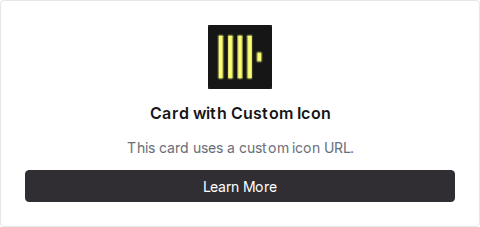
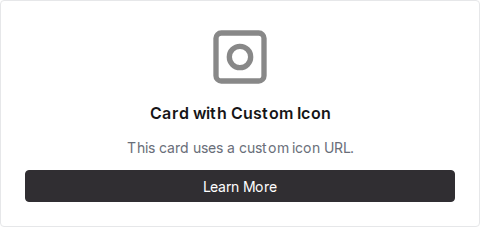
test(CardPrimary): 💍 use data-testid selectors and fix click event test

Changed region(s): [[0.4062, 0.0925, 0.5938, 0.4009]]

diff --git a/tests/cards/cardprimary.spec.ts b/tests/cards/cardprimary.spec.ts
@@ -10,7 +10,7 @@ describe('CardPrimary Visual Regression', () => {
         await page.goto(getStoryUrl('cards-primary-card--size-medium', 'light'), {
           waitUntil: 'networkidle',
         });
-        const card = page.locator('[class*="card-primary"]').first();
+        const card = page.getByTestId('card-primary');
         await expect(card).toBeVisible({ timeout: 10000 });
         await expect(card).toHaveScreenshot('card-primary-size-medium-light.png', {
           maxDiffPixels: 100,
@@ -21,7 +21,7 @@ describe('CardPrimary Visual Regression', () => {
         await page.goto(getStoryUrl('cards-primary-card--size-small', 'light'), {
           waitUntil: 'networkidle',
         });
-        const card = page.locator('[class*="card-primary"]').first();
+        const card = page.getByTestId('card-primary');
         await expect(card).toBeVisible({ timeout: 10000 });
         await expect(card).toHaveScreenshot('card-primary-size-small-light.png', {
           maxDiffPixels: 100,
@@ -34,7 +34,7 @@ describe('CardPrimary Visual Regression', () => {
         await page.goto(getStoryUrl('cards-primary-card--align-start', 'light'), {
           waitUntil: 'networkidle',
         });
-        const card = page.locator('[class*="card-primary"]').first();
+        const card = page.getByTestId('card-primary');
         await expect(card).toBeVisible({ timeout: 10000 });
         await expect(card).toHaveScreenshot('card-primary-align-start-light.png', {
           maxDiffPixels: 100,
@@ -45,7 +45,7 @@ describe('CardPrimary Visual Regression', () => {
         await page.goto(getStoryUrl('cards-primary-card--align-center', 'light'), {
           waitUntil: 'networkidle',
         });
-        const card = page.locator('[class*="card-primary"]').first();
+        const card = page.getByTestId('card-primary');
         await expect(card).toBeVisible({ timeout: 10000 });
         await expect(card).toHaveScreenshot('card-primary-align-center-light.png', {
           maxDiffPixels: 100,
@@ -56,7 +56,7 @@ describe('CardPrimary Visual Regression', () => {
         await page.goto(getStoryUrl('cards-primary-card--align-end', 'light'), {
           waitUntil: 'networkidle',
         });
-        const card = page.locator('[class*="card-primary"]').first();
+        const card = page.getByTestId('card-primary');
         await expect(card).toBeVisible({ timeout: 10000 });
         await expect(card).toHaveScreenshot('card-primary-align-end-light.png', {
           maxDiffPixels: 100,
@@ -69,7 +69,7 @@ describe('CardPrimary Visual Regression', () => {
         await page.goto(getStoryUrl('cards-primary-card--with-shadow', 'light'), {
           waitUntil: 'networkidle',
         });
-        const card = page.locator('[class*="card-primary"]').first();
+        const card = page.getByTestId('card-primary');
         await expect(card).toBeVisible({ timeout: 10000 });
         await expect(card).toHaveScreenshot('card-primary-with-shadow-light.png', {
           maxDiffPixels: 100,
@@ -80,7 +80,7 @@ describe('CardPrimary Visual Regression', () => {
         await page.goto(getStoryUrl('cards-primary-card--disabled', 'light'), {
           waitUntil: 'networkidle',
         });
-        const card = page.locator('[class*="card-primary"]').first();
+        const card = page.getByTestId('card-primary');
         await expect(card).toBeVisible({ timeout: 10000 });
         await expect(card).toHaveAttribute('aria-disabled', 'true');
         await expect(card).toHaveScreenshot('card-primary-disabled-light.png', {
@@ -92,7 +92,7 @@ describe('CardPrimary Visual Regression', () => {
         await page.goto(getStoryUrl('cards-primary-card--selected', 'light'), {
           waitUntil: 'networkidle',
         });
-        const card = page.locator('[class*="card-primary"]').first();
+        const card = page.getByTestId('card-primary');
         await expect(card).toBeVisible({ timeout: 10000 });
         await expect(card).toHaveAttribute('aria-pressed', 'true');
         await expect(card).toHaveScreenshot('card-primary-selected-light.png', {
@@ -106,7 +106,7 @@ describe('CardPrimary Visual Regression', () => {
         await page.goto(getStoryUrl('cards-primary-card--with-icon', 'light'), {
           waitUntil: 'networkidle',
         });
-        const card = page.locator('[class*="card-primary"]').first();
+        const card = page.getByTestId('card-primary');
         await expect(card).toBeVisible({ timeout: 10000 });
         await expect(card).toHaveScreenshot('card-primary-with-icon-light.png', {
           maxDiffPixels: 100,
@@ -117,7 +117,7 @@ describe('CardPrimary Visual Regression', () => {
         await page.goto(getStoryUrl('cards-primary-card--with-icon-url', 'light'), {
           waitUntil: 'networkidle',
         });
-        const card = page.locator('[class*="card-primary"]').first();
+        const card = page.getByTestId('card-primary');
         await expect(card).toBeVisible({ timeout: 10000 });
         await expect(card).toHaveScreenshot('card-primary-with-icon-url-light.png', {
           maxDiffPixels: 100,
@@ -128,7 +128,7 @@ describe('CardPrimary Visual Regression', () => {
         await page.goto(getStoryUrl('cards-primary-card--without-icon', 'light'), {
           waitUntil: 'networkidle',
         });
-        const card = page.locator('[class*="card-primary"]').first();
+        const card = page.getByTestId('card-primary');
         await expect(card).toBeVisible({ timeout: 10000 });
         await expect(card).toHaveScreenshot('card-primary-without-icon-light.png', {
           maxDiffPixels: 100,
@@ -139,7 +139,7 @@ describe('CardPrimary Visual Regression', () => {
         await page.goto(getStoryUrl('cards-primary-card--title-only', 'light'), {
           waitUntil: 'networkidle',
         });
-        const card = page.locator('[class*="card-primary"]').first();
+        const card = page.getByTestId('card-primary');
         await expect(card).toBeVisible({ timeout: 10000 });
         await expect(card).toHaveScreenshot('card-primary-title-only-light.png', {
           maxDiffPixels: 100,
@@ -150,7 +150,7 @@ describe('CardPrimary Visual Regression', () => {
         await page.goto(getStoryUrl('cards-primary-card--without-button', 'light'), {
           waitUntil: 'networkidle',
         });
-        const card = page.locator('[class*="card-primary"]').first();
+        const card = page.getByTestId('card-primary');
         await expect(card).toBeVisible({ timeout: 10000 });
         await expect(card).toHaveScreenshot('card-primary-without-button-light.png', {
           maxDiffPixels: 100,
@@ -161,7 +161,7 @@ describe('CardPrimary Visual Regression', () => {
         await page.goto(getStoryUrl('cards-primary-card--description-only', 'light'), {
           waitUntil: 'networkidle',
         });
-        const card = page.locator('[class*="card-primary"]').first();
+        const card = page.getByTestId('card-primary');
         await expect(card).toBeVisible({ timeout: 10000 });
         await expect(card).toHaveScreenshot('card-primary-description-only-light.png', {
           maxDiffPixels: 100,
@@ -174,7 +174,7 @@ describe('CardPrimary Visual Regression', () => {
         await page.goto(getStoryUrl('cards-primary-card--with-top-badge', 'light'), {
           waitUntil: 'networkidle',
         });
-        const card = page.locator('[class*="card-primary"]').first();
+        const card = page.getByTestId('card-primary');
         await expect(card).toBeVisible({ timeout: 10000 });
         await expect(card).toHaveScreenshot('card-primary-with-top-badge-light.png', {
           maxDiffPixels: 100,
@@ -188,7 +188,7 @@ describe('CardPrimary Visual Regression', () => {
             waitUntil: 'networkidle',
           }
         );
-        const card = page.locator('[class*="card-primary"]').first();
+        const card = page.getByTestId('card-primary');
         await expect(card).toBeVisible({ timeout: 10000 });
         await expect(card).toHaveScreenshot(
           'card-primary-with-top-badge-selected-light.png',
@@ -204,7 +204,7 @@ describe('CardPrimary Visual Regression', () => {
         await page.goto(getStoryUrl('cards-primary-card--small-with-badge', 'light'), {
           waitUntil: 'networkidle',
         });
-        const card = page.locator('[class*="card-primary"]').first();
+        const card = page.getByTestId('card-primary');
         await expect(card).toBeVisible({ timeout: 10000 });
         await expect(card).toHaveScreenshot('card-primary-small-with-badge-light.png', {
           maxDiffPixels: 100,
@@ -215,7 +215,7 @@ describe('CardPrimary Visual Regression', () => {
         await page.goto(getStoryUrl('cards-primary-card--small-disabled', 'light'), {
           waitUntil: 'networkidle',
         });
-        const card = page.locator('[class*="card-primary"]').first();
+        const card = page.getByTestId('card-primary');
         await expect(card).toBeVisible({ timeout: 10000 });
         await expect(card).toHaveAttribute('aria-disabled', 'true');
         await expect(card).toHaveScreenshot('card-primary-small-disabled-light.png', {
@@ -229,11 +229,11 @@ describe('CardPrimary Visual Regression', () => {
         await page.goto(getStoryUrl('cards-primary-card--size-medium', 'light'), {
           waitUntil: 'networkidle',
         });
-        const card = page.locator('[class*="card-primary"]').first();
+        const card = page.getByTestId('card-primary');
         await expect(card).toBeVisible({ timeout: 10000 });
         await card.hover();
         await page.waitForFunction(() => {
-          const el = document.querySelector('[class*="card-primary"]');
+          const el = document.querySelector('[data-testid="card-primary"]');
           return el?.matches(':hover') || false;
         });
         await expect(card).toHaveScreenshot('card-primary-hover-light.png', {
@@ -245,11 +245,11 @@ describe('CardPrimary Visual Regression', () => {
         await page.goto(getStoryUrl('cards-primary-card--size-medium', 'light'), {
           waitUntil: 'networkidle',
         });
-        const card = page.locator('[class*="card-primary"]').first();
+        const card = page.getByTestId('card-primary');
         await expect(card).toBeVisible({ timeout: 10000 });
         await card.focus();
         await page.waitForFunction(() => {
-          const el = document.querySelector('[class*="card-primary"]');
+          const el = document.querySelector('[data-testid="card-primary"]');
           return el?.matches(':focus') || false;
         });
         await expect(card).toHaveScreenshot('card-primary-focus-light.png', {
@@ -267,7 +267,7 @@ describe('CardPrimary Visual Regression', () => {
         await page.goto(getStoryUrl('cards-primary-card--size-medium'), {
           waitUntil: 'networkidle',
         });
-        const card = page.locator('[class*="card-primary"]').first();
+        const card = page.getByTestId('card-primary');
         await expect(card).toBeVisible({ timeout: 10000 });
         await expect(card).toHaveScreenshot('card-primary-size-medium-dark.png', {
           maxDiffPixels: 100,
@@ -278,7 +278,7 @@ describe('CardPrimary Visual Regression', () => {
         await page.goto(getStoryUrl('cards-primary-card--size-small'), {
           waitUntil: 'networkidle',
         });
-        const card = page.locator('[class*="card-primary"]').first();
+        const card = page.getByTestId('card-primary');
         await expect(card).toBeVisible({ timeout: 10000 });
         await expect(card).toHaveScreenshot('card-primary-size-small-dark.png', {
           maxDiffPixels: 100,
@@ -291,7 +291,7 @@ describe('CardPrimary Visual Regression', () => {
         await page.goto(getStoryUrl('cards-primary-card--disabled'), {
           waitUntil: 'networkidle',
         });
-        const card = page.locator('[class*="card-primary"]').first();
+        const card = page.getByTestId('card-primary');
         await expect(card).toBeVisible({ timeout: 10000 });
         await expect(card).toHaveAttribute('aria-disabled', 'true');
         await expect(card).toHaveScreenshot('card-primary-disabled-dark.png', {
@@ -303,7 +303,7 @@ describe('CardPrimary Visual Regression', () => {
         await page.goto(getStoryUrl('cards-primary-card--selected'), {
           waitUntil: 'networkidle',
         });
-        const card = page.locator('[class*="card-primary"]').first();
+        const card = page.getByTestId('card-primary');
         await expect(card).toBeVisible({ timeout: 10000 });
         await expect(card).toHaveScreenshot('card-primary-selected-dark.png', {
           maxDiffPixels: 100,
@@ -316,7 +316,7 @@ describe('CardPrimary Visual Regression', () => {
         await page.goto(getStoryUrl('cards-primary-card--with-top-badge'), {
           waitUntil: 'networkidle',
         });
-        const card = page.locator('[class*="card-primary"]').first();
+        const card = page.getByTestId('card-primary');
         await expect(card).toBeVisible({ timeout: 10000 });
         await expect(card).toHaveScreenshot('card-primary-with-top-badge-dark.png', {
           maxDiffPixels: 100,
@@ -330,8 +330,8 @@ describe('CardPrimary Visual Regression', () => {
       await page.goto(getStoryUrl('cards-primary-card--interactive', 'light'), {
         waitUntil: 'networkidle',
       });
-      const card = page.locator('[class*="card-primary"]').first();
-      const button = page.getByRole('button');
+      const card = page.getByTestId('card-primary');
+      const button = page.getByText('Click Me');
       await expect(card).toBeVisible({ timeout: 10000 });
       await expect(button).toBeVisible();
       await expect(button).toBeEnabled();
@@ -342,7 +342,7 @@ describe('CardPrimary Visual Regression', () => {
       await page.goto(getStoryUrl('cards-primary-card--disabled', 'light'), {
         waitUntil: 'networkidle',
       });
-      const card = page.locator('[class*="card-primary"]').first();
+      const card = page.getByTestId('card-primary');
       await expect(card).toBeVisible({ timeout: 10000 });
       await expect(card).toHaveAttribute('aria-disabled', 'true');
     });
@@ -351,7 +351,7 @@ describe('CardPrimary Visual Regression', () => {
       await page.goto(getStoryUrl('cards-primary-card--size-medium', 'light'), {
         waitUntil: 'networkidle',
       });
-      const card = page.locator('[class*="card-primary"]').first();
+      const card = page.getByTestId('card-primary');
       await expect(card).toBeVisible({ timeout: 10000 });
       await page.keyboard.press('Tab');
       await expect(card).toBeFocused();